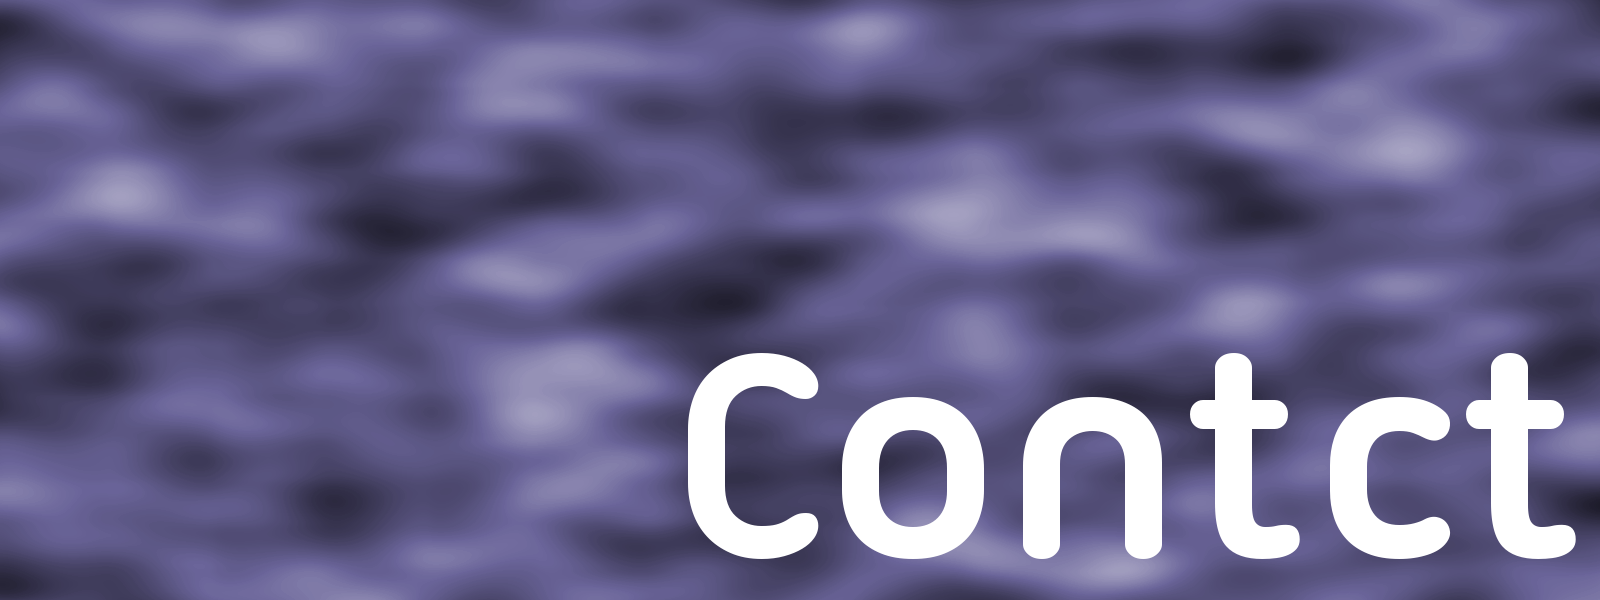
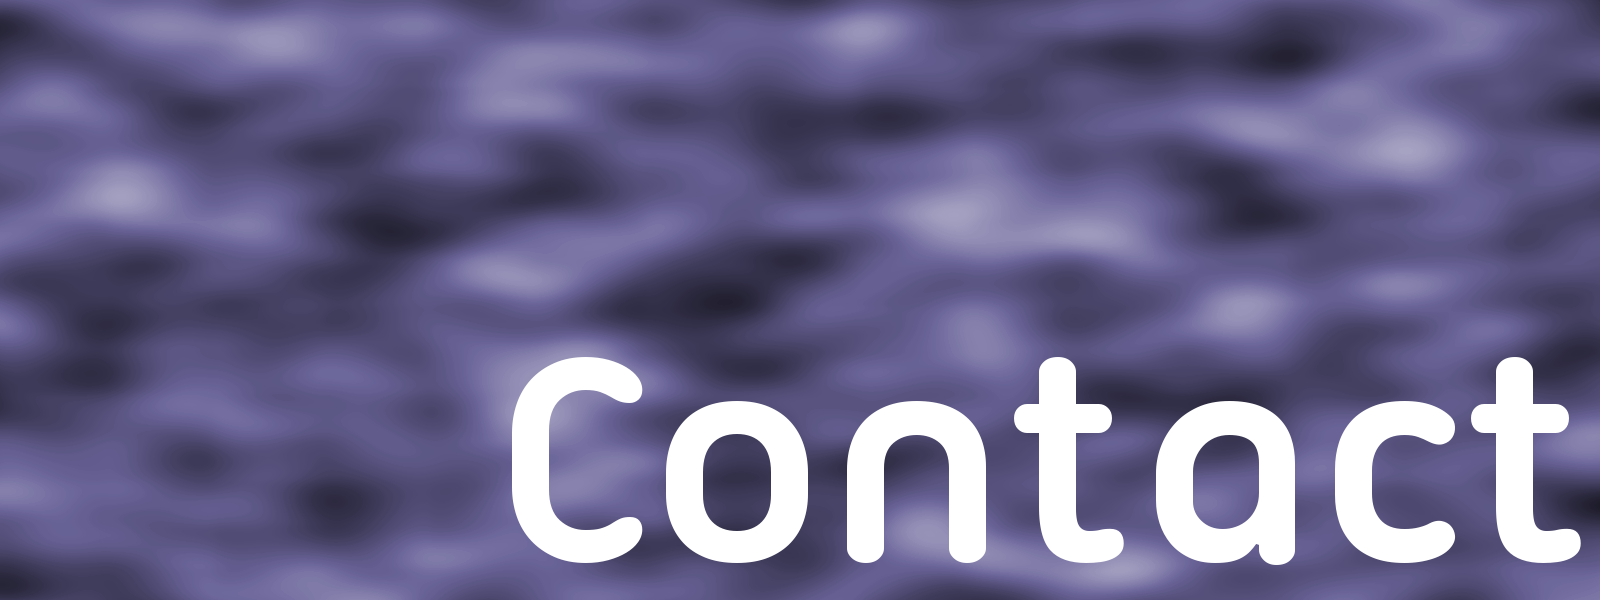
words and text

diff --git a/bio.html b/bio.html
@@ -21,12 +21,20 @@
 		<div class='container-fluid'>
 			<div class='row-fluid'>
 
-				<div class='span4'>
+				<div class='span2'>
 					<!--Sidebar-->
 				</div>
 
 				<div class='span8'>
 					<!--Body-->
+					<h1>Bio</h1>
+					<p>If you're looking for a resumé, it's up there.</p>
+					<p>Still here? Well here's my story.</p>
+					<p>...or not. Stay tuned, until I actually get around to writing about my life. Until then...</p>
+					<p>Words words words words words words words words words words words words words words words words words words words words words words words words words words words words words words words words words words words words words words words words words words words words words words words words words words words words words words words words words words words words words words words words words words words words words words words words words words words words words words words words words words words words words words words words words words words words words words words words words words words words words words.</p>
+					<p>Text text text text text text text text text text text text text text text text text text text text text text text text text text text text text text text text text text text text text text text text text text text text text text text text text text text text text text text text text text text text text text text text text text text text text text text text text text text text text text text text text text text text text text text text text text text text text text text text text text text text text text.</p>
+				</div>
+				<div class='span2'>
 				</div>
 
 			</div>

diff --git a/projects.html b/projects.html
@@ -21,12 +21,24 @@
 		<div class='container-fluid'>
 			<div class='row-fluid'>
 
-				<div class='span4'>
+				<div class='span2'>
 					<!--Sidebar-->
 				</div>
 
 				<div class='span8'>
 					<!--Body-->
+					<img src='assets/img/UberPong.png' width='600' style='padding:20px'></img>
+					<p>
+					<img src='assets/img/leap_screenshot.png' width='300' align='right'></img>
+					Why do we still fondly reminisce the days of retro gaming? Perhaps it is the simplicity, the quintissential zen of games like Pac Man, Pong, or Breakout, that create their appeal, back in the day before the development of complexities like storyline, game mechanics, and rankings. ÜberPong tries to integrate newer developments in gameplay technology, like 3d graphics and motion control, into an action-packed (or not) remix of a classic game.
+					<br/>
+					ÜberPong (originally Six Way Pong) is a project I developed for the November Hackers@Berkeley Hackathon. Originally, it was intended as my first experiment with the <a href=https://github.com/mrdoob/three.js>THREE.js</a> javascript 3-d graphics library. Under the oiginal design, it was going to be a three player online game. However, the opportunity arose to work with the Leap Motion API, particularly, the new JavaScript library, so what started as an experiment in 3-d graphics turned into a rudimentary motion game.
+					<br/>
+					<br/>
+					Access the project <a href='SixPong/uberpong.html'>here</a>.
+					</p>
+				</div>
+				<div class='span2'>
 				</div>
 
 			</div>

diff --git a/contact.html b/contact.html
@@ -21,12 +21,27 @@
 		<div class='container-fluid'>
 			<div class='row-fluid'>
 
-				<div class='span4'>
+				<div class='span2'>
 					<!--Sidebar-->
 				</div>
 
 				<div class='span8'>
 					<!--Body-->
+					<h1>Contact Info</h1>
+					<dl>
+						<dt>Email</dt>
+						<dd>alex.p.chu@gmail.com<br/>
+						alex.p.chu@berkeley.edu</dd>
+						<dt>Phone</dt>
+						<dd>1(310)-259-4188</dd>
+						<dt>Address</dt>
+						<dd>2B51D, Building 2<br/>
+						2700 Hearst Ave.<br/>
+						Berkeley, CA, 94720-2292</dd>
+					</dl>
+				</div>
+
+				<div class='span2'>
 				</div>
 
 			</div>
